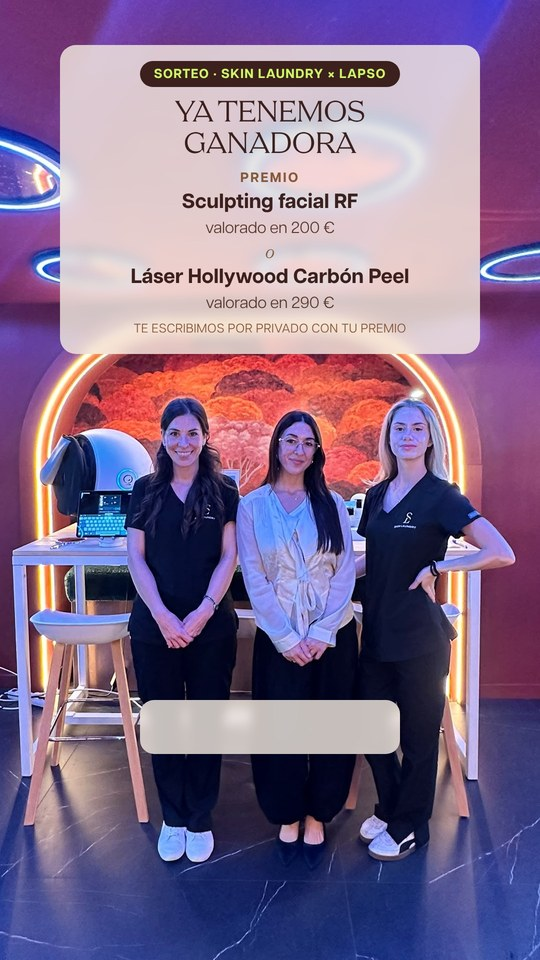
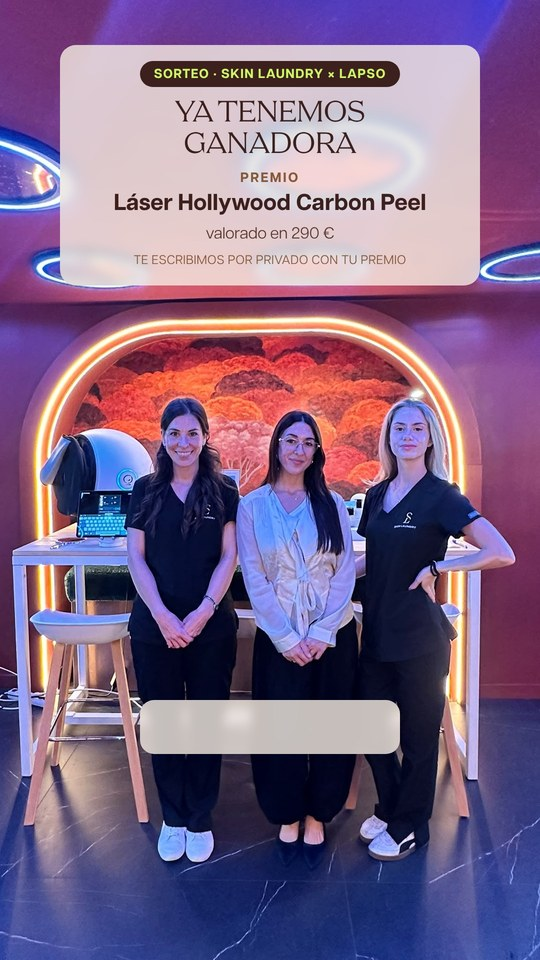
Story sorteo: solo el Láser Hollywood Carbon Peel
Claude-Session: https://claude.ai/code/session_01JZ4qrB4vBJCM1LriYw1bZU

Changed region(s): [[0.0889, 0.1875, 0.8889, 0.375]]

diff --git a/public/pitch/skin-laundry-calendario/noviembre/index.html b/public/pitch/skin-laundry-calendario/noviembre/index.html
@@ -716,7 +716,7 @@ Reserva la tuya desde el enlace de la bio.
 
 { d:18, formato:"Carrusel", estado:"listo", cubo:"Branding", tema:"Skin Laundry × Lapso", hora:"19:00h",
   storyVisible:true, storyLbl:"Stories del día",
-  storyImgs:["/pitch/skin-laundry-calendario/noviembre/img/st_18_sorteo.jpg?v=11181340","/pitch/skin-laundry-calendario/noviembre/img/st_18_recap.mp4?v=11181102"], story:["Story 1: ganadora del sorteo · añadir la mención de la ganadora en la caja pequeña, a la altura de las rodillas","Story 2: recap en vídeo con música · etiquetar a Lapso Studios centrado en el medio"],
+  storyImgs:["/pitch/skin-laundry-calendario/noviembre/img/st_18_sorteo.jpg?v=11181538","/pitch/skin-laundry-calendario/noviembre/img/st_18_recap.mp4?v=11181102"], story:["Story 1: ganadora del sorteo · añadir la mención de la ganadora en la caja pequeña, a la altura de las rodillas","Story 2: recap en vídeo con música · etiquetar a Lapso Studios centrado en el medio"],
   etiqueta:"Colaboración con Lapso",
   media:"/pitch/skin-laundry-calendario/noviembre/img/d18_lapso_05.jpg?v=11180950", slides:["/pitch/skin-laundry-calendario/noviembre/img/d18_lapso_05.jpg?v=11180950","/pitch/skin-laundry-calendario/noviembre/img/d18_lapso_02.mp4?v=11180950","/pitch/skin-laundry-calendario/noviembre/img/d18_lapso_03.jpg?v=11180950","/pitch/skin-laundry-calendario/noviembre/img/d18_lapso_04.mp4?v=11180950","/pitch/skin-laundry-calendario/noviembre/img/d18_lapso_01.jpg?v=11180950","/pitch/skin-laundry-calendario/noviembre/img/d18_lapso_06.mp4?v=11180950","/pitch/skin-laundry-calendario/noviembre/img/d18_lapso_07.jpg?v=11180950","/pitch/skin-laundry-calendario/noviembre/img/d18_lapso_08.jpg?v=11180950","/pitch/skin-laundry-calendario/noviembre/img/d18_lapso_09.jpg?v=11180950","/pitch/skin-laundry-calendario/noviembre/img/d18_lapso_10.jpg?v=11180950"],
   pieza:"Glow after the Burn: así fue el evento con Lapso",
